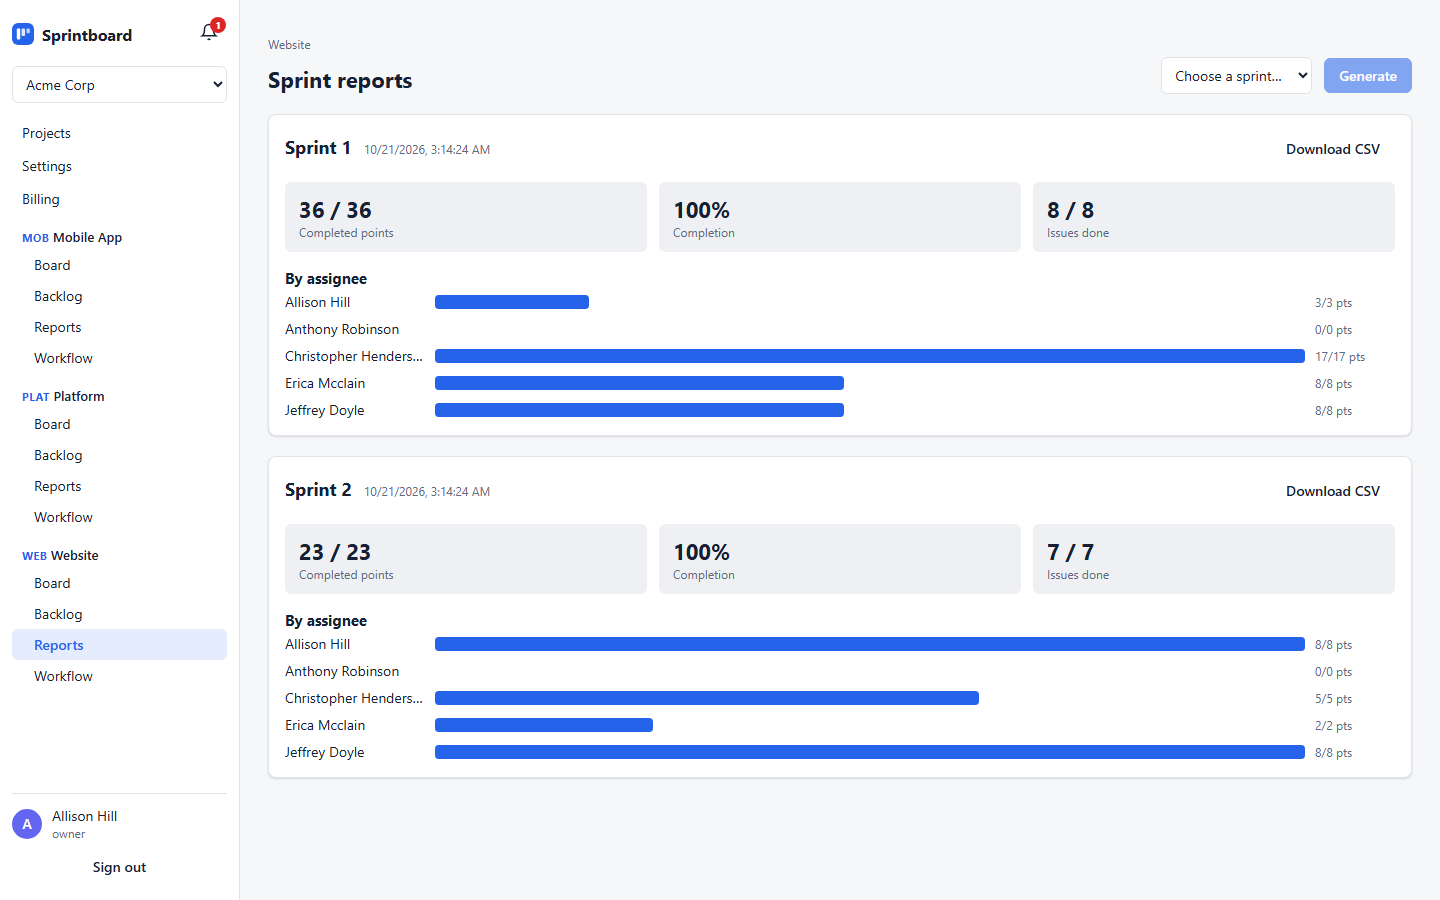
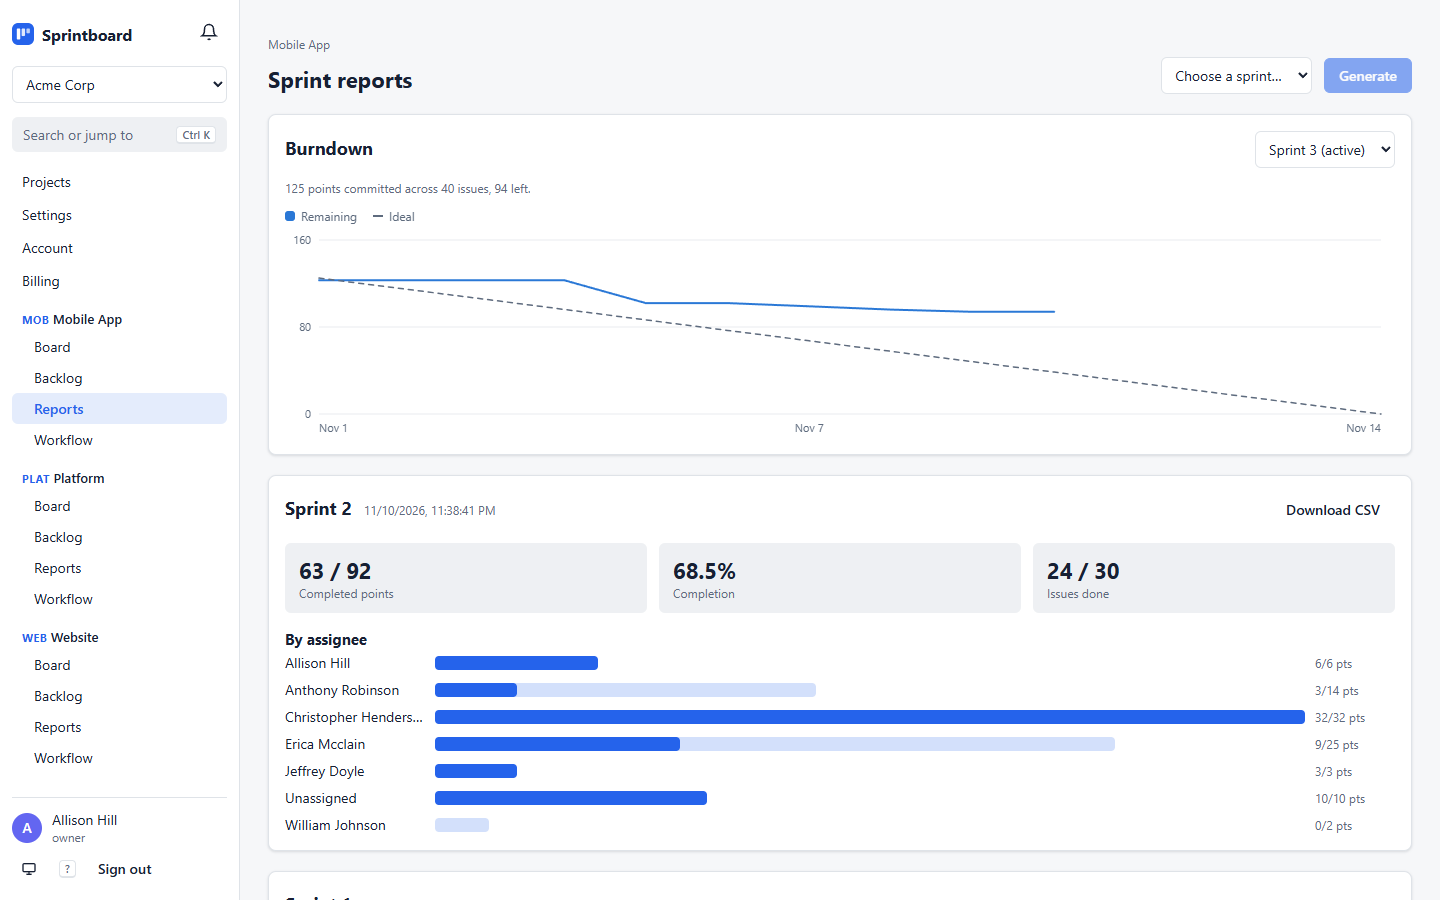
Update docs, test results and screenshots for the overview and landing page

diff --git a/README.md b/README.md
@@ -7,6 +7,8 @@ Built for the Nexvia Technologies full-stack internship (FS-04), Oct-Nov 2026.
 
 ![Board](docs/screenshots/03-board.png)
 
+![Workspace overview](docs/screenshots/02-projects.png)
+
 ## What it does
 
 - Workspaces with owner, admin, member and viewer roles, invites and workspace switching
@@ -14,7 +16,9 @@ Built for the Nexvia Technologies full-stack internship (FS-04), Oct-Nov 2026.
 - Per-project workflows: your own statuses and which moves between them are allowed
 - Comments with @mentions, attachments, and a history of every field change
 - Webhooks signed with HMAC and retried with backoff, plus in-app and email notifications
-- Sprint reports with CSV export, and a weekly summary email
+- A workspace overview on the home page: open and finished work, a 14-day created/completed chart, active sprint
+  progress, your own issues and recent activity
+- Sprint burndown charts, sprint reports with CSV export, and a weekly summary email
 - Free, Pro and Business plans billed through Stripe (test mode), with limits enforced by the API
 - Password reset and email verification, two-factor authentication (authenticator app plus recovery codes), account
   lockout, and refresh tokens that rotate and can be revoked
@@ -22,6 +26,8 @@ Built for the Nexvia Technologies full-stack internship (FS-04), Oct-Nov 2026.
 - Workspace export as JSON and workspace deletion for owners
 - Light and dark themes (following the system by default), a command palette on Ctrl+K, a shortcuts list on `?`,
   skeleton loading states, and animations that switch off for people who ask for reduced motion
+- Links straight to an issue (`/projects/3/board?issue=41`), and a public landing page with a one-click demo sign-in
+  on local stacks
 - OpenAPI docs at `/api/docs/`
 
 Django 5.2 + DRF, PostgreSQL 16, Celery and Redis on the backend; React 18 + TypeScript (Vite, TanStack Query,
@@ -36,7 +42,7 @@ docker compose --profile full up --build
 docker compose exec backend python manage.py seed
 ```
 
-Then open http://localhost:8088 and sign in as `owner@acme-corp.test` / `demo-pass-123`.
+Then open http://localhost:8088 and press **Try the demo**, or sign in as `owner@acme-corp.test` / `demo-pass-123`.
 
 The seed creates three companies on different plans: Acme Corp (Business), Globex (Pro) and Initech (Free). Every
 demo user has the same password, so you can sign in as `owner@globex.test` or `owner@initech.test` to see how the
@@ -109,9 +115,9 @@ test cards and troubleshooting.
 ## Tests
 
 ```bash
-cd backend && pytest --cov      # 118 tests, 93% coverage
+cd backend && pytest --cov      # 125 tests, 93% coverage
 cd frontend && npm test         # 6 unit tests
-cd frontend && npm run e2e      # 43 Playwright tests
+cd frontend && npm run e2e      # 46 Playwright tests
 ```
 
 The Playwright suite starts its own API and Vite server (ports 8020 and 5191), reseeds the database and clicks
@@ -164,6 +170,7 @@ With `DJANGO_DEBUG` unset the app turns on HTTPS redirects, secure cookies and H
 - `AUDIT_RETENTION_DAYS` and `NOTIFICATION_RETENTION_DAYS` (365 and 90) for the nightly cleanup
 - `THROTTLE_AUTH_RATE` / `THROTTLE_ANON_RATE` / `THROTTLE_USER_RATE` to change the rate limits (default 10, 60
   and 600 a minute)
+
 ## How it's put together
 
 All tenants share one schema and every tenant table has a `workspace_id`. Requests pick a workspace with the
@@ -176,6 +183,9 @@ column only gets renumbered when the gaps run out.
 Sessions are short-lived access tokens plus refresh tokens that rotate on every use, with the old one blacklisted.
 Signing out, changing the password or resetting it revokes the rest. Sign-in failures are counted per email and
 address, and two-factor codes can't be replayed within their time window.
+
+Issues get a `completed_at` stamp when they land in a done status, and lose it if they are reopened. The burndown
+and the overview chart are computed from that on request, so there is no snapshot table to keep in sync.
 
 Every change goes through the audit log. After the transaction commits, one Celery task turns each entry into
 notifications and webhook deliveries, so a request that rolls back never fires a webhook.
@@ -192,7 +202,7 @@ backend/
     activity/       comments, attachments, audit log
     notifications/  in-app and email notifications
     webhooks/       endpoints, signing, delivery tasks
-    reports/        sprint and weekly reports
+    reports/        sprint and weekly reports, burndown and overview numbers
     billing/        plans, limits, Stripe checkout, portal and webhooks
   config/           settings, URLs, Celery app, health check
   tests/

diff --git a/docs/TEST_RESULTS.md b/docs/TEST_RESULTS.md
@@ -1,14 +1,14 @@
 # Test results
 
-Last run 29 Oct 2026 (Windows 11, Python 3.11.9, Node 22, Postgres 16, Redis 7).
+Last run 10 Nov 2026 (Windows 11, Python 3.11.9, Node 22, Postgres 16, Redis 7).
 
-## Backend: 118 passed, 93% coverage
+## Backend: 125 passed, 93% coverage
 
 ```
 $ pytest --cov
 ...
-118 passed in 28.20s
-TOTAL   2468 statements   181 missed   93%
+125 passed in 45.49s
+TOTAL   2569 statements   182 missed   93%
 ```
 
 | Test file | Tests | What it covers |
@@ -56,13 +56,14 @@ Covers finding a card's column, moving across columns and into an empty column, 
 API, and the workflow rule check used to block columns. `npm run typecheck` (strict TypeScript) and
 `npm run build` both pass. Pages load on demand: the first load is about 241 kB of JavaScript (78 kB gzipped) split into app, React and query chunks.
 
-## End-to-end: 43 passed (Playwright, Chromium)
+## End-to-end: 46 passed (Playwright, Chromium)
 
 `npm run e2e` starts the API and Vite, migrates and seeds the database, then drives the real UI. The suite passed
 three full runs in a row (90/90) before being added to CI.
 
 | Spec | Tests | Flows covered |
 |---|---:|---|
+| `insights.spec.ts` | 3 | landing page, demo sign-in link, home overview numbers and charts, activity feed, issue deep links surviving a reload, burndown chart for a running sprint |
 | `polish.spec.ts` | 4 | command palette (Ctrl+K, filtering, Enter, Escape, empty state), shortcuts list, light/dark theme and its persistence, page animation and reduced motion |
 | `security.spec.ts` | 6 | 2FA setup, sign-in with an authenticator code, recovery codes and turning it off; password change; account lockout; board filter, backlog search and keyboard shortcuts; workspace export and deletion; phone-width menu |
 | `account.spec.ts` | 3 | forgot password, emailed reset link, weak password, reused link rejected, verify banner, resend, confirm link, bad link |

diff --git a/docs/PERFORMANCE.md b/docs/PERFORMANCE.md
@@ -61,7 +61,7 @@ not waiting on Postgres. Cutting serializer work on the heaviest endpoint gave t
 
 ## Test suite
 
-- Backend: 118 tests, 93% line coverage (`pytest --cov`), ~30 s locally.
+- Backend: 125 tests, 93% line coverage (`pytest --cov`), ~30 s locally.
   Switching tests to the MD5 password hasher took the suite from 77 s to 16.5 s.
 - Frontend: 6 unit tests for the drag-and-drop ordering and workflow rules (`npm test`).
 
